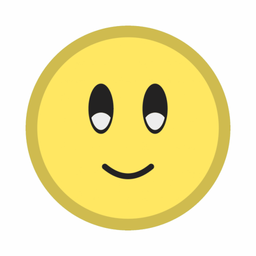
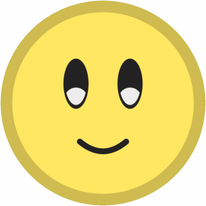
adrian ragini uy
treat me like im worth nothing

diff --git a/index.html b/index.html
@@ -11,8 +11,12 @@
 
     <body>
         <div class="grid-container">
+            <div class="item4">
+                <img src="images/florr.png" width="50px" alt="florr.io" style="border-radius: 50%;">
+            </div>
             <div class="item">
                 <nav>
+                </br></br>
                     <ul>
                         <li><a href="index.html">florr.io</a></li>
                         <li><a href="florrio.html">florrio</a></li>
@@ -24,10 +28,27 @@
             </div>
             <div class="item3">
                 <h3>florr.io</h3>
-                <p>florr.io</p>
+                <p>Lorem ipsum dolor sit amet consectetur adipiscing elit. Quisque faucibus ex sapien vitae pellentesque sem placerat. In id cursus mi pretium tellus duis convallis. Tempus leo eu aenean sed diam urna tempor. Pulvinar vivamus fringilla lacus nec metus bibendum egestas. Iaculis massa nisl malesuada lacinia integer nunc posuere. Ut hendrerit semper vel class aptent taciti sociosqu. Ad litora torquent per conubia nostra inceptos himenaeos.
+
+Lorem ipsum dolor sit amet consectetur adipiscing elit. Quisque faucibus ex sapien vitae pellentesque sem placerat. In id cursus mi pretium tellus duis convallis. Tempus leo eu aenean sed diam urna tempor. Pulvinar vivamus fringilla lacus nec metus bibendum egestas. Iaculis massa nisl malesuada lacinia integer nunc posuere. Ut hendrerit semper vel class aptent taciti sociosqu. Ad litora torquent per conubia nostra inceptos himenaeos.
+
+Lorem ipsum dolor sit amet consectetur adipiscing elit. Quisque faucibus ex sapien vitae pellentesque sem placerat. In id cursus mi pretium tellus duis convallis. Tempus leo eu aenean sed diam urna tempor. Pulvinar vivamus fringilla lacus nec metus bibendum egestas. Iaculis massa nisl malesuada lacinia integer nunc posuere. Ut hendrerit semper vel class aptent taciti sociosqu. Ad litora torquent per conubia nostra inceptos himenaeos.
+
+Lorem ipsum dolor sit amet consectetur adipiscing elit. Quisque faucibus ex sapien vitae pellentesque sem placerat. In id cursus mi pretium tellus duis convallis. Tempus leo eu aenean sed diam urna tempor. Pulvinar vivamus fringilla lacus nec metus bibendum egestas. Iaculis massa nisl malesuada lacinia integer nunc posuere. Ut hendrerit semper vel class aptent taciti sociosqu. Ad litora torquent per conubia nostra inceptos himenaeos.
+
+Lorem ipsum dolor sit amet consectetur adipiscing elit. Quisque faucibus ex sapien vitae pellentesque sem placerat. In id cursus mi pretium tellus duis convallis. Tempus leo eu aenean sed diam urna tempor. Pulvinar vivamus fringilla lacus nec metus bibendum egestas. Iaculis massa nisl malesuada lacinia integer nunc posuere. Ut hendrerit semper vel class aptent taciti sociosqu. Ad litora torquent per conubia nostra inceptos himenaeos.
+
+Lorem ipsum dolor sit amet consectetur adipiscing elit. Quisque faucibus ex sapien vitae pellentesque sem placerat. In id cursus mi pretium tellus duis convallis. Tempus leo eu aenean sed diam urna tempor. Pulvinar vivamus fringilla lacus nec metus bibendum egestas. Iaculis massa nisl malesuada lacinia integer nunc posuere. Ut hendrerit semper vel class aptent taciti sociosqu. Ad litora torquent per conubia nostra inceptos himenaeos.
+
+Lorem ipsum dolor sit amet consectetur adipiscing elit. Quisque faucibus ex sapien vitae pellentesque sem placerat. In id cursus mi pretium tellus duis convallis. Tempus leo eu aenean sed diam urna tempor. Pulvinar vivamus fringilla lacus nec metus bibendum egestas. Iaculis massa nisl malesuada lacinia integer nunc posuere. Ut hendrerit semper vel class aptent taciti sociosqu. Ad litora torquent per conubia nostra inceptos himenaeos.
+
+Lorem ipsum dolor sit amet consectetur adipiscing elit. Quisque faucibus ex sapien vitae pellentesque sem placerat. In id cursus mi pretium tellus duis convallis. Tempus leo eu aenean sed diam urna tempor. Pulvinar vivamus fringilla lacus nec metus bibendum egestas. Iaculis massa nisl malesuada lacinia integer nunc posuere. Ut hendrerit semper vel class aptent taciti sociosqu. Ad litora torquent per conubia nostra inceptos himenaeos.
+
+Lorem ipsum dolor sit amet consectetur adipiscing elit. Quisque faucibus ex sapien vitae pellentesque sem placerat. In id cursus mi pretium tellus duis convallis. Tempus leo eu aenean sed diam urna tempor. Pulvinar vivamus fringilla lacus nec metus bibendum egestas. Iaculis massa nisl malesuada lacinia integer nunc posuere. Ut hendrerit semper vel class aptent taciti sociosqu. Ad litora torquent per conubia nostra inceptos himenaeos.
+
+Lorem ipsum dolor sit amet consectetur adipiscing elit. Quisque faucibus ex sapien vitae pellentesque sem placerat. In id cursus mi pretium tellus duis convallis. Tempus leo eu aenean sed diam urna tempor. Pulvinar vivamus fringilla lacus nec metus bibendum egestas. Iaculis massa nisl malesuada lacinia integer nunc posuere. Ut hendrerit semper vel class aptent taciti sociosqu. Ad litora torquent per conubia nostra inceptos himenaeos.</p>
                 <a href="https://florr.io">florr.io</a>
-                </br></br>
-                <img src="images/florr.png" width="50px" alt="florr.io" style="border-radius: 50%;">
+                </br></br> 
             </div>
         </div>
     </body>

diff --git a/style.css b/style.css
@@ -35,10 +35,14 @@ nav li {
 }
 
 .grid-container {
-    display: inline-grid;
-    grid-template-columns: 1fr 1fr 1fr;
+    display: grid;
+    grid-template-columns: 150px 1fr;
     background-color: seagreen;
     padding: 10px;
+    grid-template-areas:
+        "header header"
+        "menu content"
+        "footer footer";
 }
 
 .item{
@@ -46,19 +50,20 @@ nav li {
     border: 1px solid #000000;
     padding: 20px;
     justify-content: center;
-    align-content: center;
     text-align: center;
+    grid-area: content;
+    grid-column: span 1;
 }    
 
 .item2 {
     background-color: mediumseagreen;
     border: 1px solid #000000;
-    padding: 20px;
     font-size: 30px;
     justify-content: center;
     align-content: center;
     text-align: center;
-    grid-column: span 2;
+    grid-column: span 1;
+    grid-area: header;
 }
 
 .item3 {
@@ -67,5 +72,16 @@ nav li {
     padding: 20px;
     align-content: center;
     text-align: left;
-    grid-column: span 3;
+    grid-column: span 1;
+    grid-area: content;
+}
+
+.item4 {
+    background-color: mediumseagreen;
+    border: 1px solid #000000;
+    padding: 20px;
+    align-content: center;
+    text-align: center;
+    grid-column: span 1;
+    grid-area: header;
 }
